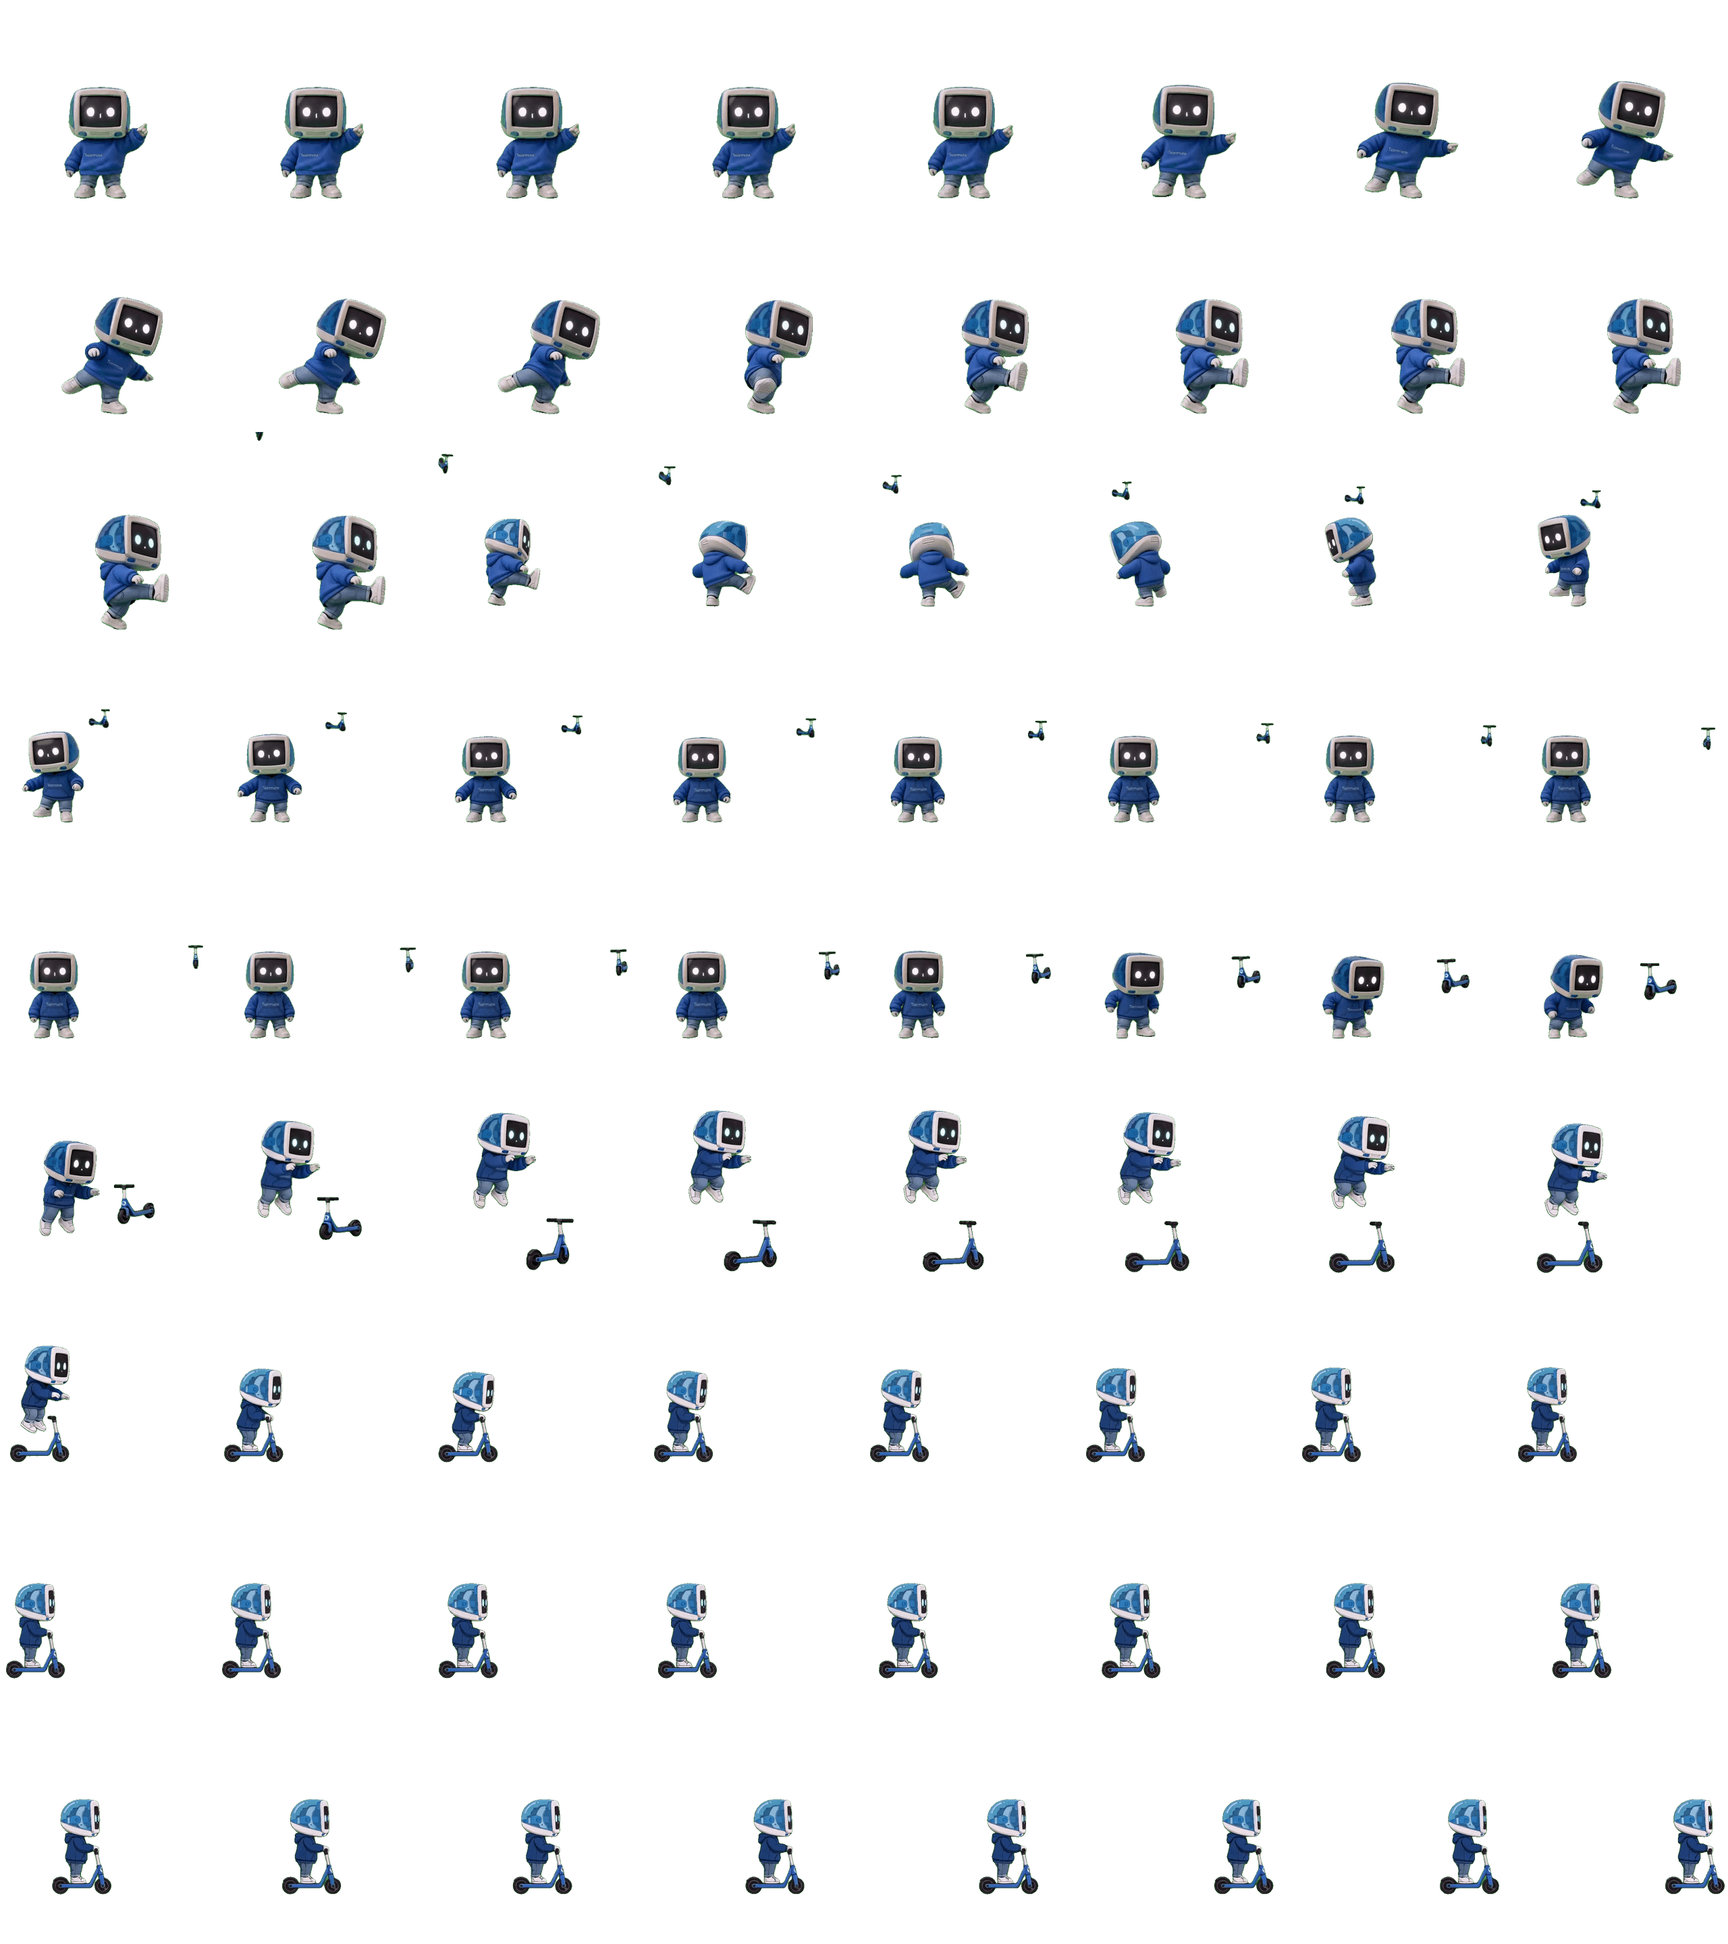
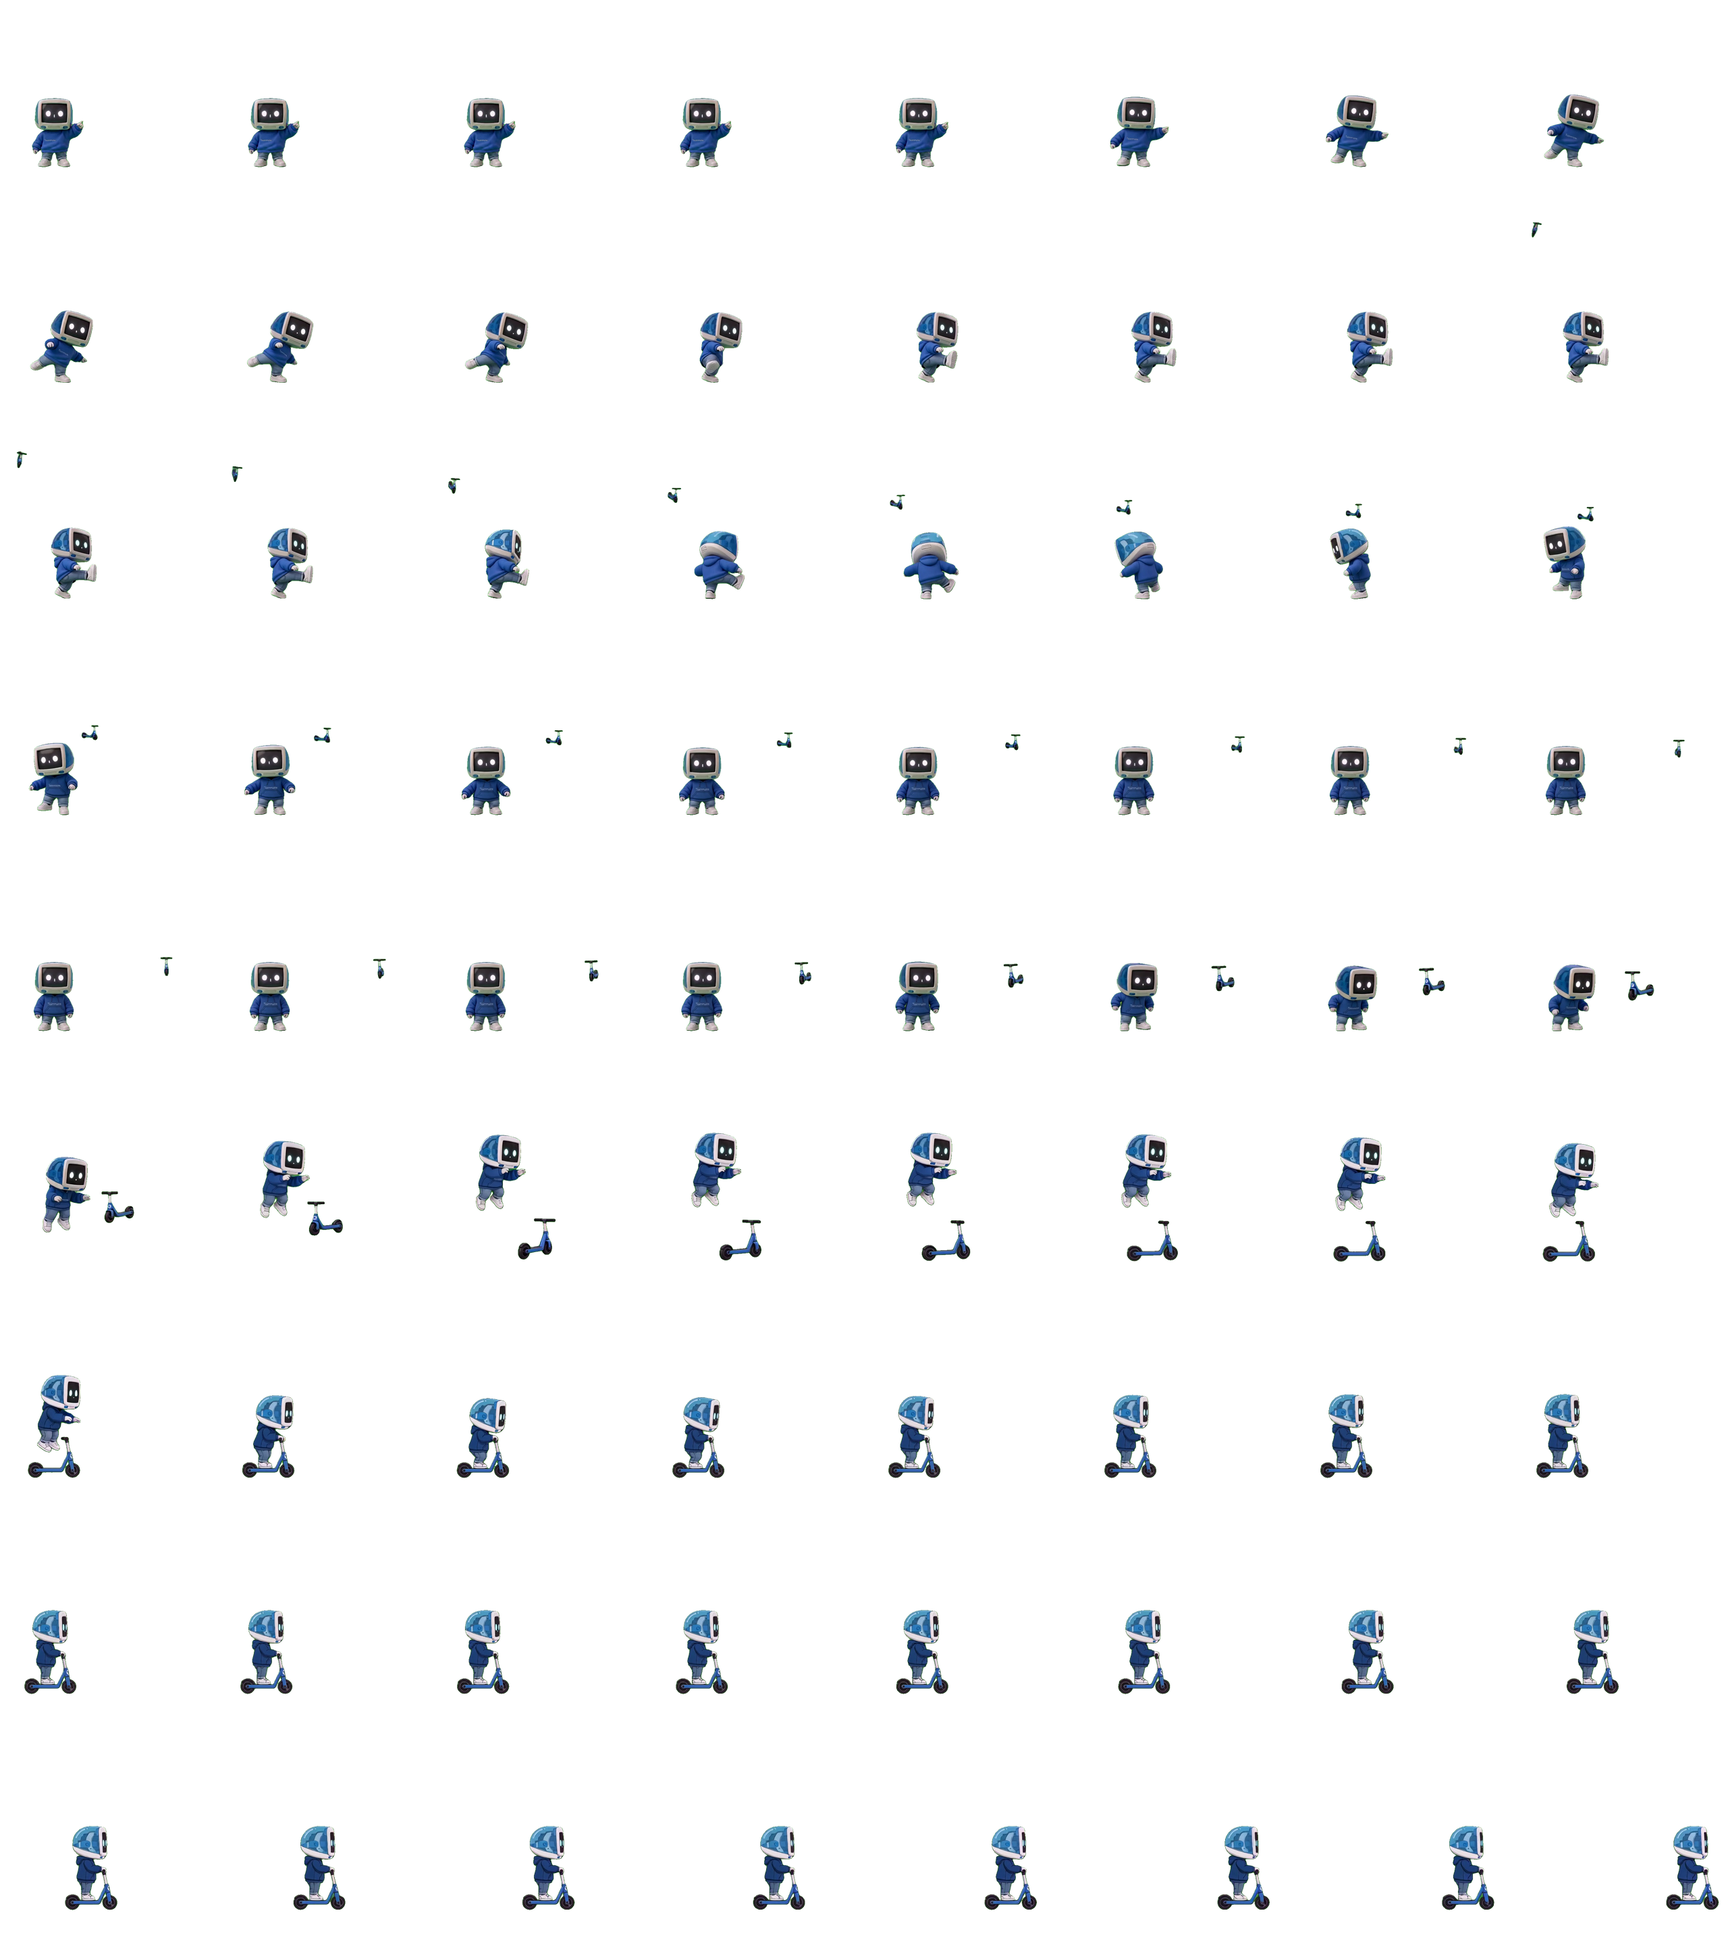
feat: 融合两段式怪兽序列帧动画

diff --git a/src/renderer/main.ts b/src/renderer/main.ts
@@ -2,7 +2,16 @@ import './style.css'
 
 import type { LaunchSession } from '../main/launch'
 import type { TrashResult } from '../main/deletion-session'
-import { MONSTER_ANIMATIONS, MONSTER_KICK_IMPACT_FRAME } from './monster-animations'
+import {
+  getMonsterExitPosition,
+  getMonsterSequencePositions,
+  MONSTER_ANIMATIONS,
+  MONSTER_APPROACH_DURATION_MS,
+  MONSTER_EXIT_DURATION_MS,
+  MONSTER_FPS,
+  MONSTER_KICK_IMPACT_FRAME,
+  MONSTER_POINT_ANCHOR
+} from './monster-animations'
 import { moveElement } from './motion'
 import { preloadImage, SpritePlayer } from './sprite-player'
 
@@ -11,9 +20,9 @@ const assetUrl = (relativePath: string): string =>
 
 const IMAGES = {
   background: assetUrl('选择界面/选择界面.png'),
-  walkingPointing: assetUrl(MONSTER_ANIMATIONS.walk.source),
-  kickingLeaving: assetUrl(MONSTER_ANIMATIONS.kick.source),
-  explosion: assetUrl('爆炸_spritesheet_transparent.png'),
+  walkingPointing: assetUrl(MONSTER_ANIMATIONS.approachAndPoint.source),
+  kickingLeaving: assetUrl(MONSTER_ANIMATIONS.destroyAndLeave.source),
+  explosion: assetUrl('爆炸_spritesheet_transparent.png')
 } as const
 
 const AUDIO = {
@@ -34,10 +43,6 @@ function delay(milliseconds: number): Promise<void> {
   return new Promise((resolve) => window.setTimeout(resolve, milliseconds))
 }
 
-function clamp(value: number, minimum: number, maximum: number): number {
-  return Math.min(Math.max(value, minimum), maximum)
-}
-
 function createAudio(source: string, volume: number, loop = false): HTMLAudioElement {
   const audio = new Audio(source)
   audio.preload = 'auto'
@@ -51,16 +56,6 @@ function playAudio(audio: HTMLAudioElement): void {
   audio.pause()
   audio.currentTime = 0
   void audio.play().catch((error) => console.warn('Audio playback failed:', error))
-}
-
-async function preloadImagesInOrder(): Promise<void> {
-  for (const source of [
-    IMAGES.walkingPointing,
-    IMAGES.kickingLeaving,
-    IMAGES.explosion
-  ]) {
-    await preloadImage(source)
-  }
 }
 
 const stage = requiredElement<HTMLElement>('stage')
@@ -85,8 +80,18 @@ const explosionSound = createAudio(AUDIO.explosion, 0.3)
 let launchSession: LaunchSession = { mode: 'spectacle' }
 let sequenceStarted = false
 
+async function prepareAnimationAssets(): Promise<void> {
+  await Promise.all([
+    preloadImage(IMAGES.walkingPointing),
+    preloadImage(IMAGES.kickingLeaving),
+    explosion.load(IMAGES.explosion, { targetHeight: 150 })
+  ])
+  explosion.hide()
+}
+
 document.documentElement.style.setProperty('--background-image', `url("${IMAGES.background}")`)
-void preloadImagesInOrder().catch((error) => console.warn('Image preload failed:', error))
+const animationAssetsReady = prepareAnimationAssets()
+void animationAssetsReady.catch((error) => console.warn('Image preload failed:', error))
 
 function updateReticle(event: MouseEvent): void {
   if (sequenceStarted) {
@@ -116,55 +121,52 @@ function waitForConfirmation(): Promise<void> {
 
 function placeConfirmation(): void {
   const position = monster.position
-  bubble.style.left = `${position.x + monster.width / 2 - 115}px`
-  bubble.style.top = `${position.y - 74}px`
-  choices.style.left = `${position.x + monster.width / 2 - 166}px`
-  choices.style.top = `${position.y + monster.height - 8}px`
+  bubble.style.left = `${position.x + MONSTER_POINT_ANCHOR.x - 80}px`
+  bubble.style.top = `${position.y + MONSTER_POINT_ANCHOR.y - 140}px`
+  choices.style.left = `${position.x + MONSTER_POINT_ANCHOR.x - 130}px`
+  choices.style.top = `${position.y + MONSTER_POINT_ANCHOR.y + 45}px`
 }
 
 async function playExplosion(target: { x: number; y: number }): Promise<void> {
   playAudio(explosionSound)
-  await explosion.load(IMAGES.explosion, { targetHeight: 150 })
   explosion.setPosition(target.x - explosion.width / 2, target.y - explosion.height / 2 - 40)
   explosion.show()
-  await explosion.play({ fps: 8 })
+  await explosion.play({ fps: MONSTER_FPS })
   explosion.hide()
 }
 
 async function runMonsterSequence(target: { x: number; y: number }): Promise<void> {
+  await animationAssetsReady
   playAudio(bgm)
 
-  await monster.load(IMAGES.walkingPointing, MONSTER_ANIMATIONS.walk.sheet)
-  const start = {
-    x: -monster.width,
-    y: clamp(target.y - monster.height / 2 + 50, 0, window.innerHeight - monster.height)
-  }
-  const approach = {
-    x: clamp(target.x - monster.width - 30, 0, window.innerWidth - monster.width),
-    y: start.y
-  }
+  await monster.load(IMAGES.walkingPointing, MONSTER_ANIMATIONS.approachAndPoint.sheet)
+  const { start, approach } = getMonsterSequencePositions(target, monster.width)
   monster.setFlip(false)
   monster.setPosition(start.x, start.y)
   monster.show()
-  void monster.play({ fps: 8, loop: true })
-  await moveElement(monsterCanvas, start, approach, 4500, 'cubic-bezier(0.16, 1, 0.3, 1)')
-  monster.stop()
+
+  const phaseOnePlayback = monster.play({ fps: MONSTER_FPS })
+  const movement = moveElement(
+    monsterCanvas,
+    start,
+    approach,
+    MONSTER_APPROACH_DURATION_MS,
+    'cubic-bezier(0.25, 0.46, 0.45, 0.94)'
+  )
+  await Promise.all([phaseOnePlayback, movement])
   monster.setPosition(approach.x, approach.y)
 
   playAudio(voice)
-  await monster.load(IMAGES.walkingPointing, MONSTER_ANIMATIONS.point.sheet)
-  await monster.play({ fps: 8 })
-
   placeConfirmation()
   await waitForConfirmation()
 
-  await monster.load(IMAGES.kickingLeaving, MONSTER_ANIMATIONS.kick.sheet)
+  await monster.load(IMAGES.kickingLeaving, MONSTER_ANIMATIONS.destroyAndLeave.sheet)
   let explosionTriggered = false
   let explosionTask: Promise<void> = Promise.resolve()
   let trashTask: Promise<TrashResult> = Promise.resolve({ ok: true })
 
   await monster.play({
-    fps: 8,
+    fps: MONSTER_FPS,
     onFrame: (frameIndex) => {
       if (frameIndex !== MONSTER_KICK_IMPACT_FRAME || explosionTriggered) {
         return
@@ -177,15 +179,15 @@ async function runMonsterSequence(target: { x: number; y: number }): Promise<voi
     }
   })
 
-  await monster.load(IMAGES.kickingLeaving, MONSTER_ANIMATIONS.leo.sheet)
-  await monster.play({ fps: 8 })
-
-  await monster.load(IMAGES.kickingLeaving, MONSTER_ANIMATIONS.fly.sheet)
-  const flyStart = monster.position
-  const flyEnd = { x: window.innerWidth + 200, y: flyStart.y }
-  void monster.play({ fps: 8, loop: true })
-  await moveElement(monsterCanvas, flyStart, flyEnd, 2000, 'cubic-bezier(0.7, 0, 0.84, 0)')
-  monster.stop()
+  const exitStart = monster.position
+  const exitEnd = getMonsterExitPosition(window.innerWidth, monster.width, exitStart.y)
+  await moveElement(
+    monsterCanvas,
+    exitStart,
+    exitEnd,
+    MONSTER_EXIT_DURATION_MS,
+    'cubic-bezier(0.7, 0, 0.84, 0)'
+  )
 
   await explosionTask
   const trashResult = await trashTask

diff --git a/tests/monster-animations.test.ts b/tests/monster-animations.test.ts
@@ -3,41 +3,76 @@ import { resolve } from 'node:path'
 import { describe, expect, it } from 'vitest'
 
 import {
+  getMonsterExitPosition,
+  getMonsterSequencePositions,
   MONSTER_ANIMATIONS,
-  MONSTER_KICK_IMPACT_FRAME
+  MONSTER_APPROACH_DURATION_MS,
+  MONSTER_EXIT_DURATION_MS,
+  MONSTER_FPS,
+  MONSTER_KICK_IMPACT_FRAME,
+  MONSTER_POINT_ANCHOR,
+  MONSTER_POSITION_OFFSET,
+  MONSTER_TARGET_HEIGHT
 } from '../src/renderer/monster-animations'
 
 const rendererSource = readFileSync(resolve(import.meta.dirname, '../src/renderer/main.ts'), 'utf8')
+const rendererHtml = readFileSync(resolve(import.meta.dirname, '../src/renderer/index.html'), 'utf8')
 
 describe('MONSTER_ANIMATIONS', () => {
-  it('splits the two combined sheets into five ordered actions', () => {
-    expect(MONSTER_ANIMATIONS.walk).toEqual({
+  it('plays the two combined sheets as two uninterrupted phases', () => {
+    expect(MONSTER_ANIMATIONS.approachAndPoint).toEqual({
       source: 'walking_pointing.png',
-      sheet: { columns: 6, rows: 7, frameIndices: Array.from({ length: 36 }, (_, index) => index) }
+      sheet: {
+        columns: 6,
+        rows: 7,
+        targetHeight: 250,
+        frameIndices: Array.from({ length: 42 }, (_, index) => index)
+      }
     })
-    expect(MONSTER_ANIMATIONS.point).toEqual({
-      source: 'walking_pointing.png',
-      sheet: { columns: 6, rows: 7, frameIndices: [36, 37, 38, 39, 40, 41] }
-    })
-    expect(MONSTER_ANIMATIONS.kick).toEqual({
+    expect(MONSTER_ANIMATIONS.destroyAndLeave).toEqual({
       source: 'kicking_leaving.png',
-      sheet: { columns: 8, rows: 9, frameIndices: Array.from({ length: 18 }, (_, index) => index) }
+      sheet: {
+        columns: 8,
+        rows: 9,
+        targetHeight: 250,
+        frameIndices: Array.from({ length: 72 }, (_, index) => index)
+      }
     })
-    expect(MONSTER_ANIMATIONS.leo).toEqual({
-      source: 'kicking_leaving.png',
-      sheet: { columns: 8, rows: 9, frameIndices: Array.from({ length: 30 }, (_, index) => index + 18) }
-    })
-    expect(MONSTER_ANIMATIONS.fly).toEqual({
-      source: 'kicking_leaving.png',
-      sheet: { columns: 8, rows: 9, frameIndices: Array.from({ length: 24 }, (_, index) => index + 48) }
-    })
-    expect(MONSTER_KICK_IMPACT_FRAME).toBe(14)
+    expect(MONSTER_FPS).toBe(11)
+    expect(MONSTER_TARGET_HEIGHT).toBe(250)
+    expect(MONSTER_KICK_IMPACT_FRAME).toBe(16)
+    expect(MONSTER_APPROACH_DURATION_MS).toBeCloseTo(3818.18, 2)
+    expect(MONSTER_EXIT_DURATION_MS).toBe(1200)
   })
 
-  it('uses the combined sources and their explicit kick impact frame in the renderer', () => {
+  it('keeps the calibrated point left and below the explosion target', () => {
+    expect(MONSTER_POINT_ANCHOR).toEqual({ x: 98, y: 143 })
+    expect(MONSTER_POSITION_OFFSET).toEqual({ x: -32, y: 22 })
+    expect(getMonsterSequencePositions({ x: 500, y: 400 }, 250)).toEqual({
+      start: { x: -250, y: 279 },
+      approach: { x: 370, y: 279 }
+    })
+  })
+
+  it('moves the entire character canvas beyond the right screen edge', () => {
+    expect(getMonsterExitPosition(1920, 250, 279)).toEqual({ x: 2170, y: 279 })
+  })
+
+  it('runs movement, playback, explosion, and deletion without splitting phase two', () => {
     expect(rendererSource).toContain('IMAGES.walkingPointing')
     expect(rendererSource).toContain('IMAGES.kickingLeaving')
+    expect(rendererSource).toContain('Promise.all([phaseOnePlayback, movement])')
     expect(rendererSource).toContain('frameIndex !== MONSTER_KICK_IMPACT_FRAME')
+    expect(rendererSource).toContain('explosionTask = playExplosion(target)')
+    expect(rendererSource).toContain('trashTask = window.monsterApi.trashTarget()')
+    expect(rendererSource).not.toContain('MONSTER_ANIMATIONS.leo')
+    expect(rendererSource).not.toContain('MONSTER_ANIMATIONS.fly')
+  })
+
+  it('keeps both confirmation choices and the final approved copy', () => {
+    expect(rendererHtml).toContain('id="confirm-primary"')
+    expect(rendererHtml).toContain('id="confirm-secondary"')
+    expect(rendererHtml).toContain('嘿嘿嘿，就是它')
   })
 
   it.each([
@@ -50,7 +85,7 @@ describe('MONSTER_ANIMATIONS', () => {
     const height = png.readUInt32BE(20)
     expect(width).toBe(expectedWidth)
     expect(height).toBe(expectedHeight)
-    expect(png.length).toBeLessThanOrEqual(1_000_000)
+    expect(png.length).toBeLessThanOrEqual(1_500_000)
     expect(width * height * 4).toBeLessThanOrEqual(30_000_000)
   })
 })

diff --git a/src/renderer/monster-animations.ts b/src/renderer/monster-animations.ts
@@ -5,30 +5,62 @@ interface MonsterAnimation {
   sheet: SpriteSheetOptions
 }
 
+interface Point {
+  x: number
+  y: number
+}
+
 const frameRange = (start: number, count: number): number[] =>
   Array.from({ length: count }, (_, index) => start + index)
 
-export const MONSTER_KICK_IMPACT_FRAME = 14
+export const MONSTER_FPS = 11
+export const MONSTER_TARGET_HEIGHT = 250
+export const MONSTER_KICK_IMPACT_FRAME = 16
+export const MONSTER_APPROACH_DURATION_MS = (42 * 1000) / MONSTER_FPS
+export const MONSTER_EXIT_DURATION_MS = 1200
+export const MONSTER_POINT_ANCHOR = { x: 98, y: 143 } as const
+export const MONSTER_POSITION_OFFSET = { x: -32, y: 22 } as const
 
 export const MONSTER_ANIMATIONS = {
-  walk: {
+  approachAndPoint: {
     source: 'walking_pointing.png',
-    sheet: { columns: 6, rows: 7, frameIndices: frameRange(0, 36) }
+    sheet: {
+      columns: 6,
+      rows: 7,
+      targetHeight: MONSTER_TARGET_HEIGHT,
+      frameIndices: frameRange(0, 42)
+    }
   },
-  point: {
-    source: 'walking_pointing.png',
-    sheet: { columns: 6, rows: 7, frameIndices: frameRange(36, 6) }
-  },
-  kick: {
+  destroyAndLeave: {
     source: 'kicking_leaving.png',
-    sheet: { columns: 8, rows: 9, frameIndices: frameRange(0, 18) }
-  },
-  leo: {
-    source: 'kicking_leaving.png',
-    sheet: { columns: 8, rows: 9, frameIndices: frameRange(18, 30) }
-  },
-  fly: {
-    source: 'kicking_leaving.png',
-    sheet: { columns: 8, rows: 9, frameIndices: frameRange(48, 24) }
+    sheet: {
+      columns: 8,
+      rows: 9,
+      targetHeight: MONSTER_TARGET_HEIGHT,
+      frameIndices: frameRange(0, 72)
+    }
   }
 } as const satisfies Record<string, MonsterAnimation>
+
+export function getMonsterSequencePositions(
+  target: Point,
+  monsterWidth: number
+): { start: Point; approach: Point } {
+  const y = target.y - MONSTER_POINT_ANCHOR.y + MONSTER_POSITION_OFFSET.y
+
+  return {
+    start: { x: -monsterWidth, y },
+    approach: {
+      x: target.x - MONSTER_POINT_ANCHOR.x + MONSTER_POSITION_OFFSET.x,
+      y
+    }
+  }
+}
+
+export function getMonsterExitPosition(
+  viewportWidth: number,
+  monsterWidth: number,
+  y: number
+): Point {
+  return { x: viewportWidth + monsterWidth, y }
+}

diff --git a/src/renderer/index.html b/src/renderer/index.html
@@ -33,7 +33,7 @@
 
       <section id="choices" class="choices" hidden aria-label="确认摧毁">
         <button id="confirm-primary" type="button">是的</button>
-        <button id="confirm-secondary" type="button">嘿嘿嘿，就是这个</button>
+        <button id="confirm-secondary" type="button">嘿嘿嘿，就是它</button>
       </section>
 
       <section id="status" class="status" hidden aria-live="assertive"></section>
